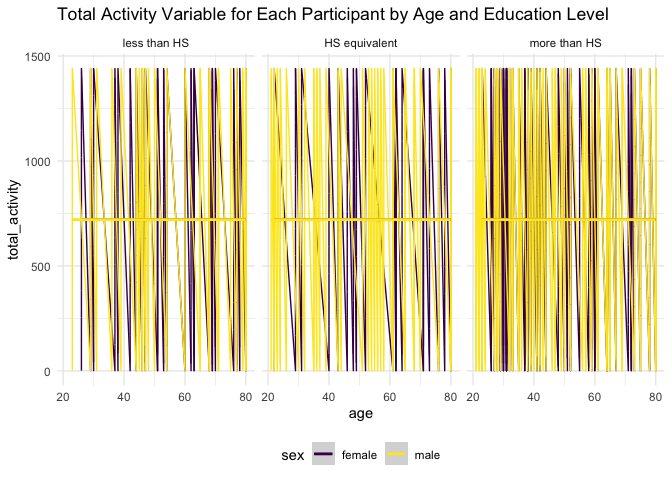
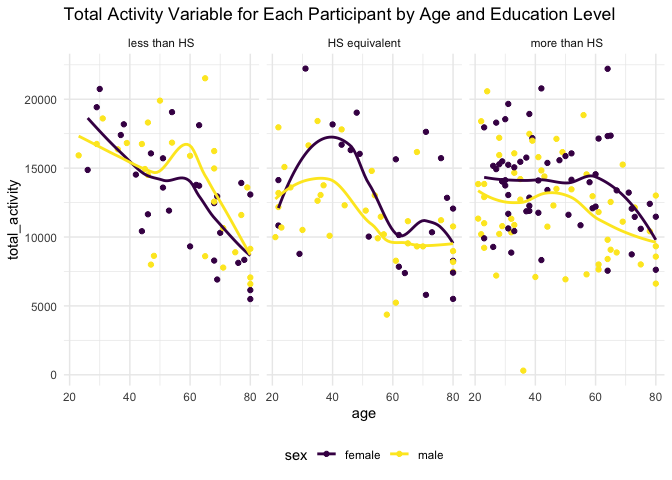
this was the final pass through for this homework assignment. i went back through and edited one of my plots from problem one to better reflect what the provided solution had. this resutled in a much cleaner graph and i updated the comments. I found an error in my response category factoring in the 

diff --git a/p8105_hw3_gvs2113.md b/p8105_hw3_gvs2113.md
@@ -94,22 +94,21 @@ Plot that shows the number of items ordered in each aisle:
 
 ``` r
 instacart |> 
-  group_by(aisle, department) |> 
-  summarize(items = n()) |> 
-  filter(items > 1000) |> 
-  ggplot(aes(x = aisle, y = items)) +
+  count(aisle) |> 
+  filter(n > 10000) |> 
+  mutate(aisle = fct_reorder(aisle,n)) |> 
+  ggplot(aes(x = aisle, y = n)) +
   geom_point() +
   labs(title = "Number of items ordered in each aisle") +
   theme(axis.text.x = element_text(angle = 45, hjust = 1))
 ```
 
-    ## `summarise()` has grouped output by 'aisle'. You can override using the
-    ## `.groups` argument.
-
 ![](p8105_hw3_gvs2113_files/figure-gfm/unnamed-chunk-4-1.png)<!-- -->
-
-A little crowded, but gets the point across. Best viewed in Zoom panel
-due to number of aisles.
+This graph shows the number of items (greater than 10,000) ordered in
+each aisle of the grocery store for the “Instacart” data set. The lowest
+number of items on this graph is in the butter category and the most
+number of items are purchases from the fresh fruits and fresh vegetables
+aisles.
 
 Table showing three most popular items in specified aisles and include
 number of orders for each:
@@ -177,8 +176,8 @@ brfss_smart2010 |>
   janitor::clean_names() |> 
   filter( 
     topic == "Overall Health",
-    response %in% c("Poor", "Fair", "Good", "Very Good", "Excellent")) |> 
-  mutate(response = factor(response, levels = c("Poor", "Fair", "Good", "Very Good", "Excellent"), ordered = TRUE))
+    response %in% c("Poor", "Fair", "Good", "Very good", "Excellent")) |> 
+  mutate(response = factor(response, levels = c("Poor", "Fair", "Good", "Very good", "Excellent"), ordered = TRUE))
 ```
 
 In 2002 which states were observed at 7 or more locations?
@@ -254,6 +253,11 @@ state.
     ## using the `.groups` argument.
 
 ![](p8105_hw3_gvs2113_files/figure-gfm/unnamed-chunk-11-1.png)<!-- -->
+The “spaghetti” plot above shows the average percent of responses
+classified in the “Execllent” category. The responses range from around
+45% to 10% “Excellent”. Overall, from 2002 to 2010, the responses stay
+stable at an average of around 25% “Excellent” with a slight decrease
+over time.
 
 Make a 2-panel plot showing distribution of `data_value` for responses
 among NY state locations
@@ -272,6 +276,12 @@ brfss_smart2010 |>
 ```
 
 ![](p8105_hw3_gvs2113_files/figure-gfm/unnamed-chunk-12-1.png)<!-- -->
+The line plot above shows the distribution of responses by locations in
+New York. In 2006, the majority of the responses across all locations in
+New York were either “Good” or “Very good”. There are more locations
+included in the 2010 distribution and show an increase in the number of
+“Very good” responses with “Good” being the next most often occurring
+response.
 
 ## Problem 3
 
@@ -322,7 +332,12 @@ mims_df_2 =
         2 ~ "HS equivalent",
         3 ~ "more than HS"),
       education = factor(education, levels = c("less than HS","HS equivalent", "more than HS"), ordered = TRUE)
-      )
+      ) |> 
+  pivot_longer(
+    min1:min1440,
+    names_to = "minutes",
+    names_prefix = "min",
+    values_to = "MIMS")
 ```
 
 Produce a reader-friendly table for the number of men and women in each
@@ -343,20 +358,25 @@ mims_df_2 |>
 
 | sex    | less than HS | HS equivalent | more than HS |
 |:-------|-------------:|--------------:|-------------:|
-| female |           28 |            23 |           59 |
-| male   |           27 |            35 |           56 |
+| female |        40320 |         33120 |        84960 |
+| male   |        38880 |         50400 |        80640 |
 
-This table shows, that there are similar numbers in participants who
-have either less than or more than high school education. There is a
-much larger difference, in favor of male participants in the category of
-having a high school equivalent education.
+This table shows, that there are similar numbers between sexes in
+participants who have either less than or more than high school
+education. There is a much larger difference, in favor of male
+participants in the category of having a high school equivalent
+education. The majority of participants for both sexes have more than a
+high school education.
 
 Create a visualization of age distributions for men and women in each
 category.
 
 ``` r
 mims_df_2 |> 
-  ggplot(aes(x = education, y = age, fill = sex)) + geom_boxplot()
+  ggplot(aes(x = education, y = age, fill = sex)) + geom_boxplot() +
+  labs(
+    title = "Age Distributions by Sex in each Education Category"
+  )
 ```
 
 ![](p8105_hw3_gvs2113_files/figure-gfm/unnamed-chunk-15-1.png)<!-- -->
@@ -367,43 +387,41 @@ than high school are very similar. The largest spread and difference in
 median are between the ages of men and women who have high school
 equivalent education. The one case in which the male median is higher
 than the female median is for those with higher than high school
-education.
+education. There are no ages that are greater than 80 years old included
+in this data.
 
 Aggregate across minutes to create a total activity variable for each
 participant over the whole day.
 
 ``` r
 mims_df_2 |> 
-  pivot_longer(
-    min1:min1440,
-    names_to = "total_activity",
-    names_prefix = "min",
-    values_to = "MIMS") |> 
-  mutate(total_activity = as.numeric(total_activity)) |> 
-  group_by(SEQN) |> 
-  ggplot(aes(x = age, y = total_activity, color = sex)) + geom_line() + geom_smooth(aes(group = sex)) + facet_grid(. ~ education) +
+  group_by(SEQN, education, age, sex) |> 
+  summarize(total_activity = sum(MIMS)) |> 
+  ggplot(aes(x = age, y = total_activity, color = sex)) + geom_point() + geom_smooth(aes(group = sex), se = FALSE) + facet_grid(. ~ education) +
   labs(
     title = "Total Activity Variable for Each Participant by Age and Education Level"
   )
 ```
 
-    ## `geom_smooth()` using method = 'gam' and formula = 'y ~ s(x, bs = "cs")'
+    ## `summarise()` has grouped output by 'SEQN', 'education', 'age'. You can
+    ## override using the `.groups` argument.
+    ## `geom_smooth()` using method = 'loess' and formula = 'y ~ x'
 
 ![](p8105_hw3_gvs2113_files/figure-gfm/unnamed-chunk-16-1.png)<!-- -->
+This plot shows the total activity of each participant across age. From
+the trend lines on each graph, you can conclude that for each education
+category, there is a decrease in total activity as age increases.
+Generally, women have higher amounts of total activity compared to men,
+except for those in the less than high school educational category.
 
 Make a 3 panel plot that shows 24-hour activity time courses for each
 education level and color by sex.
 
 ``` r
 mims_df_2 |> 
-  pivot_longer(
-    min1:min1440,
-    names_to = "total_activity",
-    names_prefix = "min",
-    values_to = "MIMS") |> 
-  mutate(total_activity = as.numeric(total_activity)) |> 
+  mutate(minutes = as.numeric(minutes)) |> 
   group_by(SEQN) |> 
-  ggplot(aes(x = total_activity, y = MIMS, color = sex)) + geom_line() + geom_smooth(aes(group = sex)) + facet_grid(. ~ education) + 
+  ggplot(aes(x = minutes, y = MIMS, color = sex)) + geom_line() + geom_smooth(aes(group = sex)) + facet_grid(. ~ education) + 
   labs(
     title = "24-hour activity time courses for each education level"
   )
@@ -412,3 +430,13 @@ mims_df_2 |>
     ## `geom_smooth()` using method = 'gam' and formula = 'y ~ s(x, bs = "cs")'
 
 ![](p8105_hw3_gvs2113_files/figure-gfm/unnamed-chunk-17-1.png)<!-- -->
+This graph shows the MIMS data for each participant over a 24 hour
+period by education level. When looking at the trend lines for each
+graph, you can conclude that all education levels show a similar
+rounded, inverse U-shaped line. The MIMS data is generally lowest before
+the 500 minute mark and trends in a sharp increase until about the
+600-700 minute mark. This level plateaus across the 700-1100 minute mark
+and then decreases until the end of the time period. This behavior is
+consistent with general activity related to normal sleep pattens with
+the most amount of activity happening in the middle, day hours of the
+time period.
